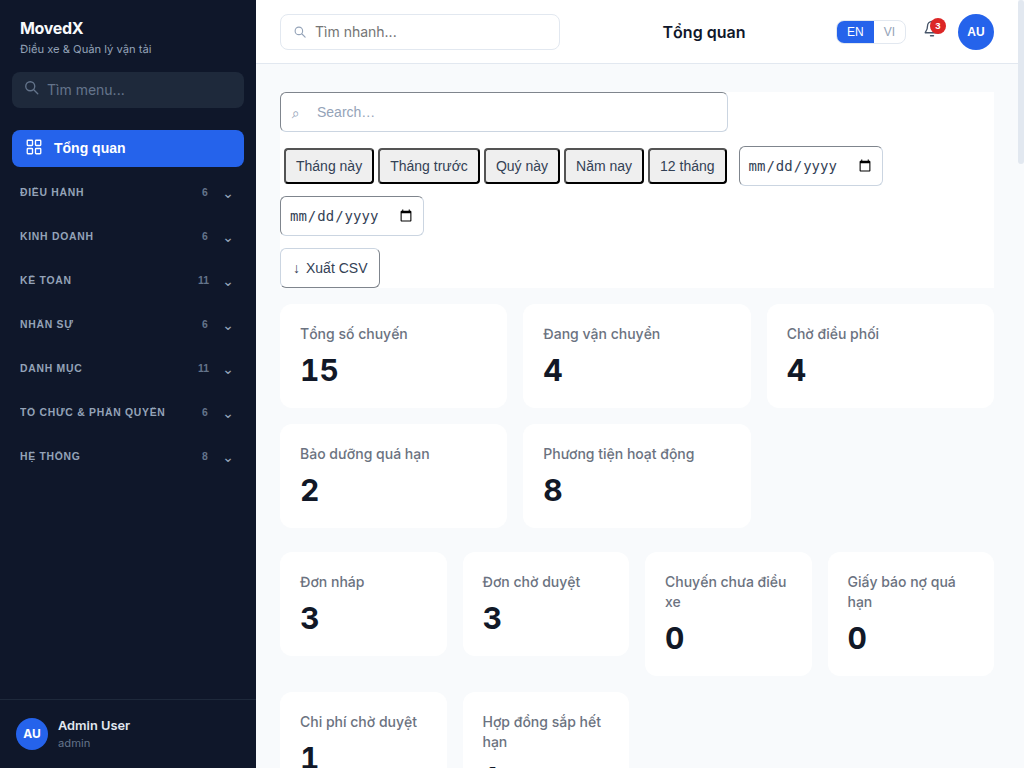
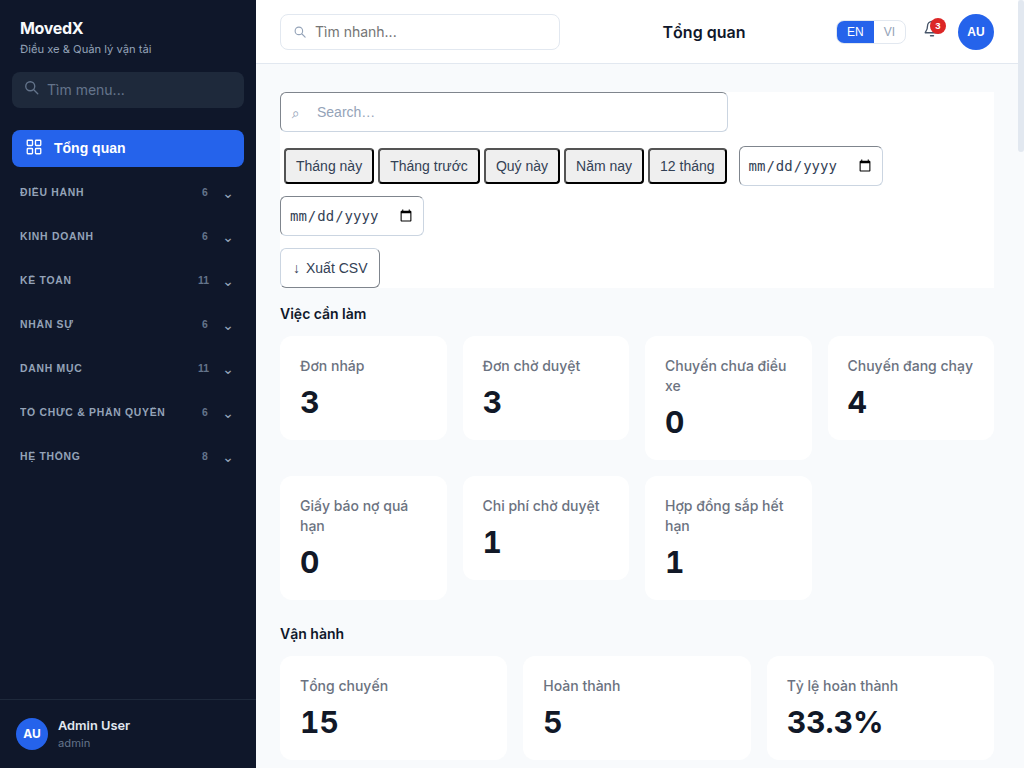
Align dashboard KPI information architecture

diff --git a/lib/yaml/schema.ts b/lib/yaml/schema.ts
@@ -82,7 +82,7 @@ const COLUMN_KEYS = new Set([
 ]);
 const ROW_ACTION_KEYS = new Set(['id', 'label', 'variant', 'show_if']);
 const TAB_KEYS = new Set(['id', 'label', 'components', 'permission', 'count']);
-const STAT_KEYS = new Set(['label', 'field', 'color']);
+const STAT_KEYS = new Set(['label', 'field', 'format', 'currency', 'color']);
 const SEARCH_KEYS = new Set(['label', 'placeholder', 'action']);
 const DATE_RANGE_KEYS = new Set(['from_field', 'to_field', 'from_label', 'to_label', 'presets', 'preset_style']);
 const TOOLBAR_FILTER_KEYS = new Set(['field', 'label', 'options', 'placeholder']);
@@ -118,7 +118,7 @@ const COMPONENT_KEYS = new Map<string, Set<string>>([
   ['ListToolbar', new Set(['type', 'source', 'filter_field', 'search', 'actions', 'date_range', 'filters', 'filter_sources'])],
   ['StatusTabs', new Set(['type', 'source', 'filter_field', 'tabs'])],
   ['TabGroup', new Set(['type', 'tabs'])],
-  ['StatRow', new Set(['type', 'source', 'stats'])],
+  ['StatRow', new Set(['type', 'source', 'title', 'stats'])],
   ['Chart', new Set(['type', 'source', 'title', 'label_field', 'value_field', 'width', 'height', 'color'])],
   ['DocumentSummary', new Set(['type', 'source', 'title_field', 'subtitle_field', 'status_field', 'status_colors', 'columns'])],
   ['LineItemGrid', new Set(['type', 'source', 'title', 'description', 'page_size', 'row_key', 'empty_state', 'columns', 'actions'])],

diff --git a/lib/components/StatRow.ts b/lib/components/StatRow.ts
@@ -3,9 +3,12 @@ import { BaseComponent } from '../runtime.ts';
 import { StatCard } from './StatCard.ts';
 
 export class StatRow extends BaseComponent {
-  constructor(id, stats = []) {
+  title: string;
+
+  constructor(id, stats = [], title = '') {
     super(id, {});
     this.stats = stats;
+    this.title = title;
   }
 
   draw(container) {
@@ -15,7 +18,11 @@ export class StatRow extends BaseComponent {
                   : cols === 3 ? 'grid-cols-3'
                   : cols === 4 ? 'grid-cols-4'
                   : cols === 5 ? 'grid-cols-2 md:grid-cols-3 xl:grid-cols-5'
-                  : 'grid-cols-2 md:grid-cols-4';
+                  : cols === 7 ? 'grid-cols-2 md:grid-cols-4 xl:grid-cols-7'
+                  : 'grid-cols-2 md:grid-cols-3 xl:grid-cols-6';
+    if (this.title) {
+      html.take(container).h3.className('mb-3 text-sm font-semibold text-slate-900').text(this.title);
+    }
     const grid = html.take(container).div.className(`grid ${gridCls} gap-4`).getContext();
 
     this.stats.forEach((stat, i) => {

diff --git a/lib/components/StatCard.ts b/lib/components/StatCard.ts
@@ -4,10 +4,10 @@ import { fmtCurrency, fmtNumber } from './helpers.ts';
 
 export class StatCard extends BaseComponent {
   draw(container) {
-    const { label, value, format = null, delta = null, trend = null, color = 'indigo' } = this.state;
+    const { label, value, format = null, currency = 'USD', delta = null, trend = null, color = 'indigo' } = this.state;
 
     let displayValue = value;
-    if (format === 'currency') displayValue = fmtCurrency(value);
+    if (format === 'currency') displayValue = fmtCurrency(value, currency);
     else if (format === 'number') displayValue = fmtNumber(value);
     else if (format === 'percent') displayValue = value + '%';
 

diff --git a/lib/page-renderer.ts b/lib/page-renderer.ts
@@ -497,7 +497,7 @@ export async function renderPage(config: any, { container = document.body }: { c
     const getPath = (obj, path) => path.split('.').reduce((o, k) => (o == null ? undefined : o[k]), obj);
     const mappedStats = (def.stats || []).map(s => ({ ...s, value: getPath(sourceData, s.field) }));
 
-    const comp = new StatRow(`stat-row-${def.source || Date.now()}`, mappedStats);
+    const comp = new StatRow(`stat-row-${def.source || Date.now()}`, mappedStats, def.title || '');
     const slot = document.createElement('div');
     slot.style.marginBottom = '24px';
     targetContainer.appendChild(slot);

diff --git a/.scratch/movedx-feature-parity/evidence/completion-audit.md b/.scratch/movedx-feature-parity/evidence/completion-audit.md
@@ -13,6 +13,7 @@ Audited 2026-07-26 against `.scratch/movedx-feature-parity/PRD.md`.
 - A disposable fresh-database workflow audit completes 13 representative named transitions across orders, quotes, financial documents, payroll, and trip cancellation.
 - Named workflow actions, field allowlists, and audit writes remain server-authorized; framework tests pass 139/139.
 - Dashboard period controls match the supplied reference states with segmented `Tháng này`, `Tháng trước`, `Quý này`, `Năm nay`, and `12 tháng` presets at desktop and tablet widths.
+- Dashboard KPI information architecture now matches the supplied reference sections, including the seven-card task row, six-card operating/financial/HR rows, and VND financial formatting.
 
 ## Not Proven
 

diff --git a/.scratch/movedx-feature-parity/evidence/dashboard/controls.md b/.scratch/movedx-feature-parity/evidence/dashboard/controls.md
@@ -3,7 +3,8 @@
 ## Visible controls
 
 - Global route search, period presets, date range, and CSV export are available.
-- KPI cards cover dispatch actions, operations, revenue/cost, receivables/payables, advances, and HR.
+- KPI cards are grouped into the reference sections `Việc cần làm`, `Vận hành`, `Doanh thu · Chi phí`, `Công nợ · Dòng tiền`, and `Nhân sự`.
+- Financial KPI cards use VND formatting and task cards expose draft, approval, dispatch, overdue, and expiring-contract work items.
 - Trip status chart, dispatch queue, top routes, and top customers remain below the KPI regions.
 
 ## Interaction checks
